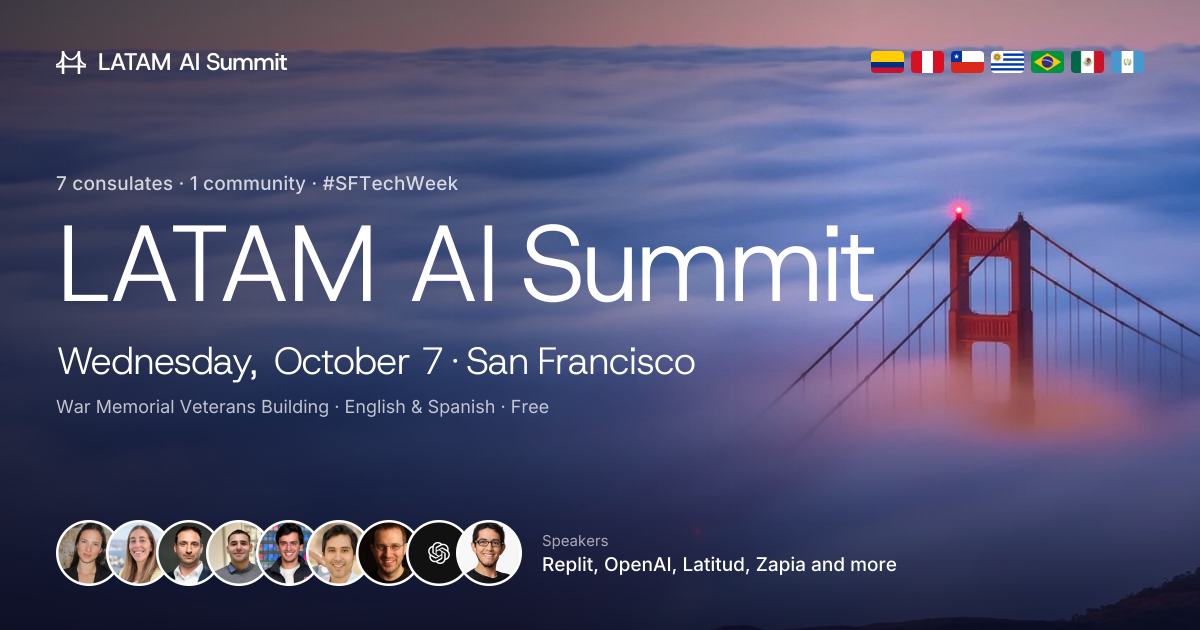
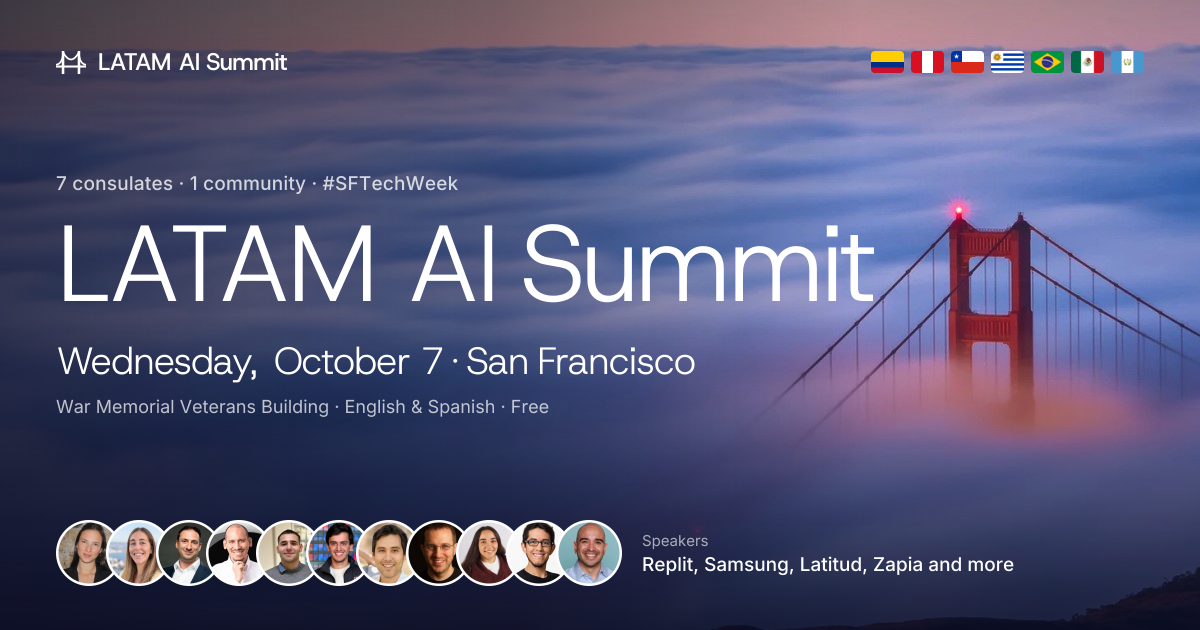
Add Valentina Ponce de León and Juan Carlos Niebles to the lineup
- Panel 3 (Product Engineering with AI): Nicolás Loeff with Valentina
  Ponce de León, cofounder and CEO of LAB10. The OpenAI engineer
  placeholder is removed.
- The closing fireside chat becomes "The Future of AI and Engineering",
  with Luis Héctor Chávez (Replit) and Juan Carlos Niebles (EVP, Samsung
  Research North America AI Center).
- LAB10 and Samsung logos on their cards; the share images show the
  updated lineup.

Changed region(s): [[0.0925, 0.8143, 0.8633, 0.9349]]

diff --git a/src/lib/summit.ts b/src/lib/summit.ts
@@ -89,6 +89,8 @@ export const companies = {
   zapia: company("Zapia", "https://zapia.com", "zapia.svg", 4.566),
   openai: company("OpenAI", "https://openai.com", "openai-wordmark.svg", 3.71, 0.92),
   replit: company("Replit", "https://replit.com", "replit.svg", 3.506),
+  lab10: company("LAB10", "https://lab10.ai", "lab10.svg", 2.618, 0.92),
+  samsung: company("Samsung Research", "https://research.samsung.com", "samsung.svg", 6.54, 0.95),
   torre: company("Torre.ai", "https://torre.ai", "/images/supporters/torre.webp", 4.592),
   emma: company("Emma", "https://emma.group", "/images/supporters/emma.webp", 4.73),
 } satisfies Record<string, Company>;
@@ -378,17 +380,17 @@ export const speakers: Speaker[] = [
     linkedin: "https://www.linkedin.com/in/nloeff/",
   },
   {
-    id: "openai",
-    name: "OpenAI",
-    role: { es: "Engineer", en: "Engineer" },
-    company: companies.openai,
+    id: "valentina-ponce-de-leon",
+    name: "Valentina Ponce de León",
+    role: { es: "Cofundadora y CEO", en: "Cofounder & CEO" },
+    company: companies.lab10,
     bio: {
-      es: "Una persona del equipo de ingeniería de OpenAI se suma a la conversación sobre cómo se construye producto con IA.",
-      en: "An engineer from OpenAI joins the conversation on how product gets built with AI.",
+      es: "Cofundadora y CEO de LAB10, la comunidad de AI builders de Latinoamérica donde miles de personas aprenden a construir con IA. Antes, Chief of Staff en Truora. Makers Fellow.",
+      en: "Cofounder and CEO of LAB10, the Latin American community of AI builders where thousands learn to build with AI. Previously Chief of Staff at Truora. Makers Fellow.",
     },
     session: "panel-product",
-    placeholder: "/images/logos/openai.svg",
-    status: "tba",
+    image: photo("valentina-ponce-de-leon"),
+    linkedin: "https://www.linkedin.com/in/vpdl/",
   },
   {
     id: "luis-hector-chavez",
@@ -402,6 +404,19 @@ export const speakers: Speaker[] = [
     session: "fireside",
     image: photo("luis-hector-chavez"),
     linkedin: "https://www.linkedin.com/in/lhchavez/",
+  },
+  {
+    id: "juan-carlos-niebles",
+    name: "Juan Carlos Niebles",
+    role: { es: "EVP, North America AI Center", en: "EVP, North America AI Center" },
+    company: companies.samsung,
+    bio: {
+      es: "Lidera el North America AI Center de Samsung Research como vicepresidente ejecutivo. Antes dirigió la investigación de IA en Salesforce y codirigió el Stanford Vision and Learning Lab.",
+      en: "Leads Samsung Research's North America AI Center as executive vice president. Previously led AI research at Salesforce and co-directed the Stanford Vision and Learning Lab.",
+    },
+    session: "fireside",
+    image: photo("juan-carlos-niebles"),
+    linkedin: "https://www.linkedin.com/in/juan-carlos-niebles/",
   },
 ];
 
@@ -625,7 +640,7 @@ export const agenda: AgendaItem[] = [
       es: "Cómo cambia la forma de diseñar, construir y lanzar producto cuando la IA está en el centro del equipo.",
       en: "How designing, building and shipping product changes when AI sits at the center of the team.",
     },
-    speakers: ["nicolas-loeff", "openai"],
+    speakers: ["nicolas-loeff", "valentina-ponce-de-leon"],
     highlight: true,
   },
   {
@@ -634,14 +649,14 @@ export const agenda: AgendaItem[] = [
     end: "15:00",
     kind: { es: "Fireside chat", en: "Fireside chat" },
     title: {
-      es: "Fireside chat con Luis Héctor Chávez, CTO de Replit",
-      en: "Fireside Chat with Luis Héctor Chávez, CTO of Replit",
+      es: "El futuro de la IA y la ingeniería",
+      en: "The Future of AI and Engineering",
     },
     description: {
-      es: "Una conversación sobre construir en la frontera de la IA con quien lidera la tecnología de Replit.",
-      en: "A conversation about building at the frontier of AI with the engineer leading technology at Replit.",
+      es: "Luis Héctor Chávez, CTO de Replit, y Juan Carlos Niebles, de Samsung Research, conversan sobre hacia dónde van la IA y el oficio de construir software.",
+      en: "Replit CTO Luis Héctor Chávez and Samsung Research's Juan Carlos Niebles on where AI, and the craft of building software, are headed.",
     },
-    speakers: ["luis-hector-chavez"],
+    speakers: ["luis-hector-chavez", "juan-carlos-niebles"],
     highlight: true,
   },
   {
